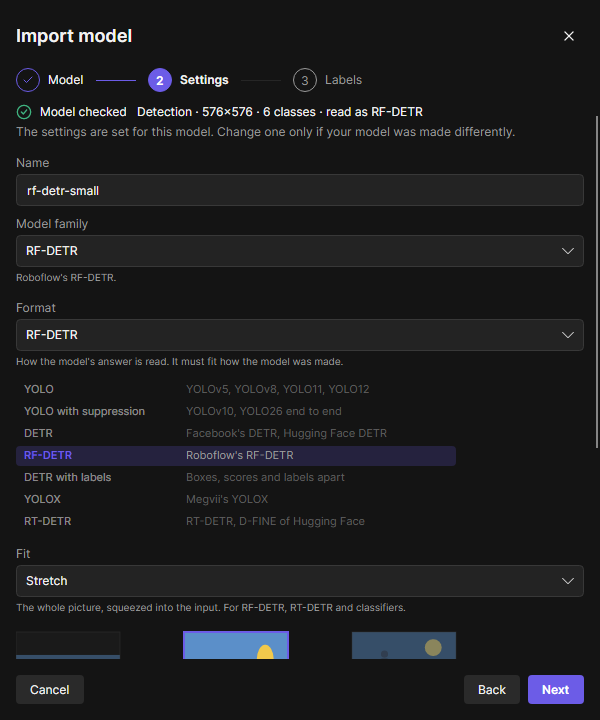
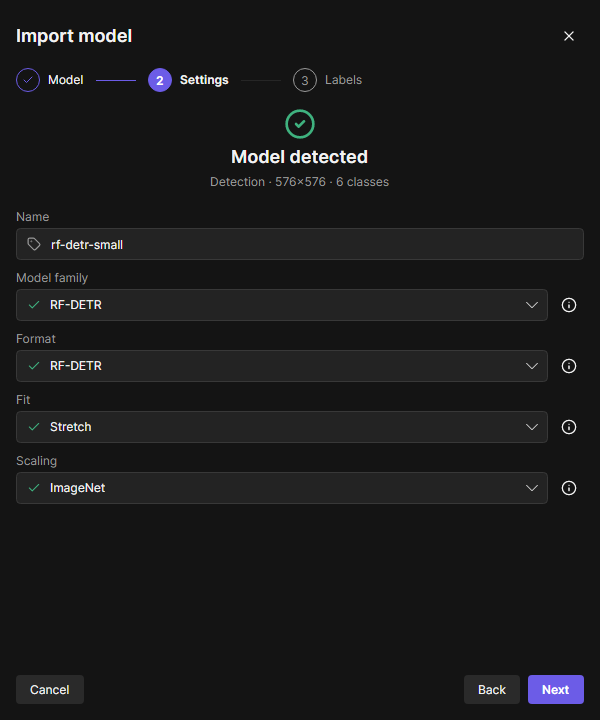
feat(vision): Import model shows Model detected and marks the settings the check found; slider rows level with their label

diff --git a/plugins/Oadm.Plugins.Vision.Client/ModelSettings.cs b/plugins/Oadm.Plugins.Vision.Client/ModelSettings.cs
@@ -24,8 +24,8 @@ public sealed record SettingChoice<T>(T Value, string Name)
 public sealed partial class ModelSettingsViewModel : ValidatingViewModel
 {
     /// <param name="model">The stored model.</param>
-    /// <param name="guided">The Import model wizard: each setting with its drawing and what the chosen one does below it (the
-    /// Settings dialog has them in the info icons).</param>
+    /// <param name="guided">The Import model wizard: each select shows whether it holds what the check found (a check mark,
+    /// else a warning and what the check found below it).</param>
     public ModelSettingsViewModel(VisionModel model, bool guided = false)
     {
         Model = model ?? throw new ArgumentNullException(nameof(model));
@@ -52,30 +52,51 @@ public sealed partial class ModelSettingsViewModel : ValidatingViewModel
 
     public VisionModel Model { get; }
 
-    /// <summary>The wizard's form: the drawings show inline with a line on the chosen value; else in the info icons.</summary>
+    /// <summary>The wizard's form: the selects mark what the check found (the Settings dialog has no marks).</summary>
     public bool IsGuided { get; }
-
-    public bool IsNotGuided => !IsGuided;
 
     public ModelKind Kind => Model.Kind;
 
-    /// <summary>The info icon's text (the Settings dialog); null in the wizard, which shows the drawing inline.</summary>
-    public string? FormatInfo => IsGuided ? null : VisionTexts.FormatInfo;
+    /// <summary>The info icons' texts (their drawings in <see cref="ModelSettingDiagram"/>), the same in dialog and wizard.</summary>
+    public static string FormatInfo => VisionTexts.FormatInfo;
 
-    public string? FitInfo => IsGuided ? null : VisionTexts.FitInfo;
+    public static string FitInfo => VisionTexts.FitInfo;
 
-    public string? ScalingInfo => IsGuided ? null : VisionTexts.ScalingInfo;
+    public static string ScalingInfo => VisionTexts.ScalingInfo;
 
-    /// <summary>What the chosen value does, below its select in the wizard.</summary>
-    public string? FormatHint => IsGuided ? VisionTexts.FormatInfo : null;
+    /// <summary>The wizard: the select holds what the check found (a green check).</summary>
+    public bool FormatFound => IsGuided && Format.Value == Model.Format;
 
-    public string? FitHint => IsGuided ? VisionTexts.FitMeaning(Fit.Value) : null;
+    /// <summary>The wizard: the user chose another value than the check found (a warning, what was found below).</summary>
+    public bool FormatChanged => IsGuided && Format.Value != Model.Format;
 
-    public string? ScalingHint => IsGuided ? VisionTexts.ScalingMeaning(Scaling.Value) : null;
+    public bool FitFound => IsGuided && Fit.Value == Model.Fit;
 
-    partial void OnFitChanged(SettingChoice<ModelFit> value) => OnPropertyChanged(nameof(FitHint));
+    public bool FitChanged => IsGuided && Fit.Value != Model.Fit;
 
-    partial void OnScalingChanged(SettingChoice<ModelScaling> value) => OnPropertyChanged(nameof(ScalingHint));
+    public bool ScalingFound => IsGuided && Scaling.Value == Model.Scaling;
+
+    public bool ScalingChanged => IsGuided && Scaling.Value != Model.Scaling;
+
+    public string? FormatHint => FormatChanged ? VisionTexts.CheckFound(Formats.First(f => f.Value == Model.Format).Name) : null;
+
+    public string? FitHint => FitChanged ? VisionTexts.CheckFound(Fits.First(f => f.Value == Model.Fit).Name) : null;
+
+    public string? ScalingHint => ScalingChanged ? VisionTexts.CheckFound(Scalings.First(s => s.Value == Model.Scaling).Name) : null;
+
+    partial void OnFormatChanged(SettingChoice<ModelFormat> value) => Notify(nameof(FormatFound), nameof(FormatChanged), nameof(FormatHint));
+
+    partial void OnFitChanged(SettingChoice<ModelFit> value) => Notify(nameof(FitFound), nameof(FitChanged), nameof(FitHint));
+
+    partial void OnScalingChanged(SettingChoice<ModelScaling> value) => Notify(nameof(ScalingFound), nameof(ScalingChanged), nameof(ScalingHint));
+
+    private void Notify(params string[] names)
+    {
+        foreach (var name in names)
+        {
+            OnPropertyChanged(name);
+        }
+    }
 
     public static string Title => VisionTexts.ModelSettings;
 

diff --git a/plugins/Oadm.Plugins.Vision.Client/ModelImportViewModel.cs b/plugins/Oadm.Plugins.Vision.Client/ModelImportViewModel.cs
@@ -130,11 +130,9 @@ public sealed partial class ModelImportViewModel : ValidatingViewModel, IDisposa
 
     // ---- Step 2: what the check found ----
 
-    public static string ModelChecked => VisionTexts.ModelChecked;
+    public static string ModelDetected => VisionTexts.ModelDetected;
 
-    public static string SettingsReady => VisionTexts.SettingsReady;
-
-    /// <summary>"Detection · 640x640 · 80 classes · read as YOLO."</summary>
+    /// <summary>"Detection · 640x640 · 80 classes", below Model detected.</summary>
     [ObservableProperty]
     public partial string? Found { get; private set; }
 
@@ -149,11 +147,19 @@ public sealed partial class ModelImportViewModel : ValidatingViewModel, IDisposa
 
     /// <summary>The family the check found; another one sets its format, fit and scaling below.</summary>
     [ObservableProperty]
-    [NotifyPropertyChangedFor(nameof(FamilyText))]
+    [NotifyPropertyChangedFor(nameof(FamilyFound), nameof(FamilyChanged), nameof(FamilyHint))]
     public partial ModelFamily? Family { get; set; }
 
-    /// <summary>Below the family: the models it stands for.</summary>
-    public string? FamilyText => Family?.Examples;
+    /// <summary>The family the check found (null before a check).</summary>
+    public ModelFamily? FoundFamily { get; private set; }
+
+    /// <summary>The family select holds what the check found (a green check).</summary>
+    public bool FamilyFound => FoundFamily is not null && Family == FoundFamily;
+
+    /// <summary>The user chose another family than the check found (a warning, the found one below).</summary>
+    public bool FamilyChanged => FoundFamily is not null && Family != FoundFamily;
+
+    public string? FamilyHint => FamilyChanged ? VisionTexts.CheckFound(FoundFamily!.Name) : null;
 
     [ObservableProperty]
     public partial ModelSettingsViewModel? Settings { get; private set; }
@@ -343,10 +349,11 @@ public sealed partial class ModelImportViewModel : ValidatingViewModel, IDisposa
                 }
             };
             Settings = settings;
-            Found = VisionTexts.Found(model, settings.Format.Name);
+            Found = VisionTexts.Found(model);
             _settingFamily = true;
             Families = [.. ModelFamilies.All.Where(f => f.Kind == model.Kind)];
-            Family = ModelFamilies.Of(model);
+            FoundFamily = ModelFamilies.Of(model);
+            Family = FoundFamily;
             _settingFamily = false;
             var classList = ModelEditViewModel.ForClassList(model, _importer.Lists);
             classList.PropertyChanged += (_, e) =>

diff --git a/tests/Oadm.Plugins.Vision.Tests/Client/ModelImportTests.cs b/tests/Oadm.Plugins.Vision.Tests/Client/ModelImportTests.cs
@@ -79,13 +79,32 @@ public sealed class ModelImportTests
         Assert.Equal([4, 4, 2], chunks.Select(c => c.Data.Length));
         Assert.Equal([0.4, 0.8, 1.0], progress.Where(p => p > 0));
         Assert.True(wizard.IsSettingsStep);
-        Assert.Equal("Detection · 640x640 · 6 classes · read as YOLO", wizard.Found);
+        Assert.Equal("Detection · 640x640 · 6 classes", wizard.Found);
         Assert.Equal("small", wizard.Name); // the server's name for it
         Assert.Equal("YOLOv8, YOLO11, YOLO12", wizard.Family!.Name);
         Assert.All(wizard.Families, f => Assert.Equal(ModelKind.Detection, f.Kind));
         Assert.True(wizard.Settings!.IsGuided);
-        Assert.Equal(VisionTexts.FitMeaning(ModelFit.Letterbox), wizard.Settings.FitHint);
-        Assert.Null(wizard.Settings.FitInfo); // the drawing is inline, not in an info icon
+
+        // Every select holds what the check found: a check mark, nothing below it.
+        Assert.True(wizard.FamilyFound && wizard.Settings.FormatFound && wizard.Settings.FitFound && wizard.Settings.ScalingFound);
+        Assert.False(wizard.FamilyChanged || wizard.Settings.FitChanged);
+        Assert.Null(wizard.Settings.FitHint);
+
+        // Another fit: a warning and what the check found below it; back again, the check mark.
+        wizard.Settings.Fit = ModelSettingsViewModel.Fits.First(f => f.Value == ModelFit.Stretch);
+        Assert.True(wizard.Settings.FitChanged);
+        Assert.False(wizard.Settings.FitFound);
+        Assert.Equal(VisionTexts.CheckFound("Letterbox"), wizard.Settings.FitHint);
+        wizard.Settings.Fit = ModelSettingsViewModel.Fits.First(f => f.Value == ModelFit.Letterbox);
+        Assert.True(wizard.Settings.FitFound);
+        Assert.Null(wizard.Settings.FitHint);
+
+        // Another family: its settings, the family marked as changed.
+        var other = wizard.Families.First(f => f != wizard.FoundFamily);
+        wizard.Family = other;
+        Assert.True(wizard.FamilyChanged);
+        Assert.Equal(VisionTexts.CheckFound(wizard.FoundFamily!.Name), wizard.FamilyHint);
+        Assert.Equal(other.Format, wizard.Settings.Format.Value);
         Assert.Contains(models.Rows.OfType<ModelRow>(), r => r.Model.Id == "m9");
     }
 

diff --git a/plugins/Oadm.Plugins.Vision.Client/VisionTexts.cs b/plugins/Oadm.Plugins.Vision.Client/VisionTexts.cs
@@ -81,8 +81,8 @@ public static class VisionTexts
     public const string Back = "Back";
     public const string Next = "Next";
     public const string Import = "Import";
-    public const string ModelChecked = "Model checked";
-    public const string SettingsReady = "The settings are set for this model. Change one only if your model was made differently.";
+    public const string ModelDetected = "Model detected";
+    public const string FamilyInfo = "Sets format, fit and scaling for the models of this family.";
     public const string FormatInfo = "How the model's answer is read. It must fit how the model was made.";
     public const string FitInfo = "How the camera's wide picture goes into the model's input.";
     public const string ScalingInfo = "What the model gets for each pixel.";
@@ -217,14 +217,17 @@ public static class VisionTexts
         _ => "Each colour from 0 to 1. For YOLO and most other exports.",
     };
 
-    /// <summary>What the model check found, below "Model checked" ("Detection · 640x640 · 80 classes · read as YOLO").</summary>
-    public static string Found(VisionModel model, string formatName)
+    /// <summary>What the model check found, below "Model detected" ("Detection · 640x640 · 80 classes").</summary>
+    public static string Found(VisionModel model)
     {
         ArgumentNullException.ThrowIfNull(model);
         var kind = model.Kind == ModelKind.Classification ? "Classification" : "Detection";
         var classes = model.ClassNames.Count;
-        return string.Create(CultureInfo.InvariantCulture, $"{kind} · {model.InputWidth}x{model.InputHeight} · {classes:N0} {(classes == 1 ? "class" : "classes")} · read as {formatName}");
+        return string.Create(CultureInfo.InvariantCulture, $"{kind} · {model.InputWidth}x{model.InputHeight} · {classes:N0} {(classes == 1 ? "class" : "classes")}");
     }
+
+    /// <summary>Below a select of Import model whose value the user changed: "The check found RF-DETR."</summary>
+    public static string CheckFound(string name) => "The check found " + name + ".";
 
     public static string Uploading(double fraction) => string.Create(CultureInfo.InvariantCulture, $"Upload {Math.Round(Math.Clamp(fraction, 0, 1) * 100)} %");
 

diff --git a/src/Oadm.Sdk.Client/Controls/LeadingIcon.cs b/src/Oadm.Sdk.Client/Controls/LeadingIcon.cs
@@ -10,6 +10,8 @@ namespace Oadm.Sdk.Client.Controls;
 /// <see cref="SearchBox"/> and with the look of the login's icons (theme class <c>fieldIcon</c>): <c>&lt;ui:LeadingIcon Icon="{StaticResource Icon.squareA}"&gt;&lt;ComboBox /&gt;&lt;/ui:LeadingIcon&gt;</c>.
 /// The theme gives the input room for the icon (<c>ui|LeadingIcon &gt; ComboBox</c>, <c>ui|LeadingIcon &gt; TextBox</c>);
 /// the icon stays level with the input when a validation error shows below it. Decoration only: it takes no clicks.
+/// Without an icon the input keeps its usual padding (pseudo-class <c>:noIcon</c>). The theme classes <c>found</c> (a green
+/// check: the value is what a check found) and <c>changed</c> (a warning triangle: the user picked another one) set the icon.
 /// </summary>
 public sealed class LeadingIcon : Panel
 {
@@ -29,6 +31,7 @@ public sealed class LeadingIcon : Panel
         _icon.Classes.Add("fieldIcon");
         _icon.Classes.Add("leading");
         Children.Add(_icon);
+        PseudoClasses.Set(":noIcon", true);
     }
 
     /// <summary>The icon (<c>{StaticResource Icon.…}</c> or <c>{DynamicResource Icon.…}</c>).</summary>
@@ -44,6 +47,7 @@ public sealed class LeadingIcon : Panel
         if (change.Property == IconProperty)
         {
             _icon.Data = Icon;
+            PseudoClasses.Set(":noIcon", Icon is null);
         }
     }
 }

diff --git a/tests/Oadm.Plugins.Vision.Tests/Client/PageScreenshotTests.cs b/tests/Oadm.Plugins.Vision.Tests/Client/PageScreenshotTests.cs
@@ -193,8 +193,16 @@ public sealed class PageScreenshotTests
                 await next;
                 Headless.Pump();
                 Assert.True(wizard.IsSettingsStep);
-                Assert.True(dialog.FindControl<ModelSettingsForm>("SettingsForm")!.GetVisualDescendants().OfType<ModelSettingDiagram>().Count(d => d.IsEffectivelyVisible) == 2); // Fit and Scaling; the Format select names the formats
+                Assert.DoesNotContain(dialog.FindControl<ModelSettingsForm>("SettingsForm")!.GetVisualDescendants().OfType<ModelSettingDiagram>(), d => d.IsEffectivelyVisible); // the drawings sit in the info icons, as in the Settings dialog
                 Headless.Capture(dialog, $"vision-import-settings-{suffix}.png");
+
+                // Another fit than the check found: a warning in its select and what was found below it.
+                var found = wizard.Settings!.Fit;
+                wizard.Settings.Fit = ModelSettingsViewModel.Fits.First(f => f != found);
+                Headless.Pump();
+                Headless.Capture(dialog, $"vision-import-changed-{suffix}.png");
+                wizard.Settings.Fit = found;
+                Headless.Pump();
 
                 await wizard.NextCommand.ExecuteAsync(null);
                 Headless.Pump();

diff --git a/docs/spec/vision-center.md b/docs/spec/vision-center.md
@@ -130,14 +130,15 @@ A model is a stored ONNX file with a name, a kind and what it needs to be read. 
      button. Next sends the file (progress and Cancel in the step), then the model check; the model is stored from here
      on. A refusal shows below the file. The same file again after Back is not sent again; another file replaces the
      stored one.
-  2. **Settings**: "Model checked" (the green chip) and what the check found ("Detection · 576x576 · 91 classes · read as
-     RF-DETR"), "The settings are set for this model. Change one only if your model was made differently.", the Name
-     (the server's name for the file; unique), the **Model family** the check found (`ModelFamilies.Of`: by the format, a
-     classifier by its scaling; only the families of the model's kind: YOLOv8 / YOLO11 / YOLO12, YOLOv10 / YOLO26 end to
-     end, YOLOX, RF-DETR, DETR, RT-DETR / D-FINE, DETR with labels, ImageNet classifier, YOLO classifier; a line naming
-     its models below; another family sets its format, fit and scaling), then the Settings form (`ModelSettingsForm`,
-     shared with the dialog) with the drawings of Fit and Scaling below their selects (Format has none there: its select
-     names the formats) and one line on what the chosen value does.
+  2. **Settings**: centered, a green check, "Model detected" and what the check found ("Detection · 576x576 · 91
+     classes"; decided 2026-11-10); then the Name (a tag icon; the server's name for the file; unique), the **Model
+     family** the check found (`ModelFamilies.Of`: by the format, a classifier by its scaling; only the families of the
+     model's kind: YOLOv8 / YOLO11 / YOLO12, YOLOv10 / YOLO26 end to end, YOLOX, RF-DETR, DETR, RT-DETR / D-FINE, DETR with
+     labels, ImageNet classifier, YOLO classifier; another family sets its format, fit and scaling) and the Settings form
+     (`ModelSettingsForm`, shared with the dialog). Family, Format, Fit and Scaling carry a green check while they hold
+     what the check found and a warning once the user picks another, with "The check found Stretch." below it
+     (`ui:LeadingIcon` classes `found` / `changed`); their info icons hold the same texts and drawings as the Settings
+     dialog, no drawing or line below a select.
   3. **Labels**: **Load labels file** (a `.txt`, one name per line: its lines become the own names; another count shows
      below them) and the Class list form (`ModelClassListForm`, shared with the dialog).
   Import saves name, settings and labels in one `updateModel`; a refused setting (a format whose outputs do not fit)

diff --git a/docs/spec/visual-style.md b/docs/spec/visual-style.md
@@ -181,7 +181,9 @@ Every shared control (Coding Rules: "reuse UI components") and what it is for.
   puts a `fieldIcon` at its left inside, level with the input's first line (the theme's `ui|LeadingIcon > ComboBox`,
   `ui|LeadingIcon > TextBox` give the input room for it); the login's server box, the field checks of event rules
   (`Icon.squareA`, `Icon.squareFunction`, `Icon.squareB`: A f B); class `accent` gives the icon the accent colour (the
-  operator's f, decided 2026-11-02). The check row is `Grid.checkRow`: star columns capped at `Oadm.CheckFieldWidth`,
+  operator's f, decided 2026-11-02); class `found` sets a green check (the value is what a check found) and `changed` a
+  warning triangle (the user picked another; Import model of Vision Center, decided 2026-11-10); without an icon the input
+  keeps its usual padding. The check row is `Grid.checkRow`: star columns capped at `Oadm.CheckFieldWidth`,
   `Oadm.CheckOperatorWidth`, `Oadm.CheckValueWidth` (the event select above the checks spans the three, its info icon and
   the checks' remove icon share the last column, `SharedSizeGroup` CheckEnd), so the row keeps those widths and shrinks
   on a narrow window; each input is a label-less `ui:FormField` (`wide inline`) so leaving it shows its error.
